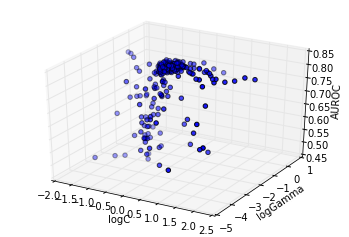
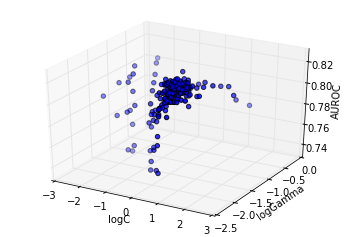
updated local optima notebook

diff --git a/docs/notebooks/notebooks/local-optima.rst b/docs/notebooks/notebooks/local-optima.rst
@@ -22,8 +22,7 @@ response surface is non-smooth, non-convex and has many local minima).
     %matplotlib inline
     from matplotlib import pylab as plt
     from mpl_toolkits.mplot3d import Axes3D
-Create the data set: we use the MNIST data set and will build models to
-distinguish digits 8 and 9.
+Create a 2-D toy data set.
 
 .. code:: python
 
@@ -52,18 +51,13 @@ Lets have a look at our 2D data set.
 
 .. parsed-literal::
 
-    [<matplotlib.lines.Line2D at 0x7fefe2161b90>]
+    [<matplotlib.lines.Line2D at 0x7f1f2a6a2b90>]
 
 
 
 
 .. image:: local-optima_files/output_6_1.png
 
-
-First, lets see the performance of an SVC with default hyperparameters.
-
-Tune SVC with RBF kernel 
--------------------------
 
 In order to use Optunity to optimize hyperparameters, we start by
 defining the objective function. We will use 5-fold cross-validated area
@@ -86,7 +80,7 @@ Now we can use Optunity to find the hyperparameters that maximize AUROC.
 
 .. code:: python
 
-    optimal_rbf_pars, info, _ = optunity.maximize(svm_rbf_tuned_auroc, num_evals=300, logC=[-2, 2], logGamma=[-5, 0])
+    optimal_rbf_pars, info, _ = optunity.maximize(svm_rbf_tuned_auroc, num_evals=300, logC=[-4, 2], logGamma=[-5, 0])
     # when running this outside of IPython we can parallelize via optunity.pmap
     # optimal_rbf_pars, _, _ = optunity.maximize(svm_rbf_tuned_auroc, 150, C=[0, 10], gamma=[0, 0.1], pmap=optunity.pmap)
     
@@ -95,8 +89,8 @@ Now we can use Optunity to find the hyperparameters that maximize AUROC.
 
 .. parsed-literal::
 
-    Optimal parameters: {'logGamma': -1.1793256704935242, 'logC': -0.46768229166666586}
-    AUROC of tuned SVM with RBF kernel: 0.815
+    Optimal parameters: {'logGamma': -1.7262599731822696, 'logC': 0.5460942232689681}
+    AUROC of tuned SVM with RBF kernel: 0.825
 
 
 We can turn the call log into a pandas dataframe to efficiently inspect
@@ -125,12 +119,12 @@ we can make surface plots.
 
 .. parsed-literal::
 
-    <matplotlib.text.Text at 0x7fefde77ab90>
+    <matplotlib.text.Text at 0x7f1f26cbed50>
 
 
 
 
-.. image:: local-optima_files/output_16_1.png
+.. image:: local-optima_files/output_14_1.png
 
 
 The above plot shows the particles converge directly towards the
@@ -157,12 +151,12 @@ showing the sub trace with score up to 99% of the optimum
 
 .. parsed-literal::
 
-    <matplotlib.text.Text at 0x7fefde686210>
+    <matplotlib.text.Text at 0x7f1f2a5c3190>
 
 
 
 
-.. image:: local-optima_files/output_18_1.png
+.. image:: local-optima_files/output_16_1.png
 
 
 .. code:: python
@@ -181,34 +175,115 @@ showing the sub trace with score up to 99% of the optimum
 
 .. parsed-literal::
 
-    <matplotlib.text.Text at 0x7fefde5cd5d0>
+    <matplotlib.text.Text at 0x7f1f26ae5410>
 
 
 
 
-.. image:: local-optima_files/output_19_1.png
+.. image:: local-optima_files/output_17_1.png
 
+
+Lets further examine the area close to the optimum, that is the 95%
+region. We will examine a 50x50 grid in this region.
 
 .. code:: python
 
-    cutoff = 0.99 * info.optimum
-    fig = plt.figure()
-    ax = fig.add_subplot(111, projection='3d')
-    ax.scatter(xs=df[df.value > cutoff]['logC'], 
-               ys=df[df.value > cutoff]['logGamma'], 
-               zs=df[df.value > cutoff]['value'])
-    ax.set_xlabel('logC')
-    ax.set_ylabel('logGamma')
-    ax.set_zlabel('AUROC')
+    minlogc = min(df[df.value > cutoff]['logC'])
+    maxlogc = max(df[df.value > cutoff]['logC'])
+    minloggamma = min(df[df.value > cutoff]['logGamma'])
+    maxloggamma = max(df[df.value > cutoff]['logGamma'])
+    
+    _, info_new, _ = optunity.maximize(svm_rbf_tuned_auroc, num_evals=2500, 
+                                       logC=[minlogc, maxlogc], 
+                                       logGamma=[minloggamma, maxloggamma], 
+                                       solver_name='grid search')
+Make a new data frame of the call log for easy manipulation.
+
+.. code:: python
+
+    df_new = optunity.call_log2dataframe(info_new.call_log)
+Determine the region in which we will do a standard grid search to
+obtain contours.
+
+.. code:: python
+
+    reshape = lambda x: np.reshape(x, (50, 50))
+    logcs = reshape(df_new['logC'])
+    loggammas = reshape(df_new['logGamma'])
+    values = reshape(df_new['value'])
+Now, lets look at a contour plot to see whether or not the response
+surface is smooth.
+
+.. code:: python
+
+    levels = np.arange(0.97, 1.0, 0.005) * info_new.optimum
+    CS = plt.contour(logcs, loggammas, values, levels=levels)
+    plt.clabel(CS, inline=1, fontsize=10)
+    plt.title('Contours of SVM tuning response surface')
+    plt.xlabel('log C')
+    plt.ylabel('log gamma')
+
+.. parsed-literal::
+
+    /usr/lib/pymodules/python2.7/matplotlib/contour.py:483: DeprecationWarning: using a non-integer number instead of an integer will result in an error in the future
+      nlc.append(np.r_[lc[:I[0] + 1], xy1])
+    /usr/lib/pymodules/python2.7/matplotlib/contour.py:485: DeprecationWarning: using a non-integer number instead of an integer will result in an error in the future
+      nlc.append(np.r_[xy2, lc[I[1]:]])
+    /usr/lib/pymodules/python2.7/matplotlib/contour.py:483: DeprecationWarning: using a non-integer number instead of an integer will result in an error in the future
+      nlc.append(np.r_[lc[:I[0] + 1], xy1])
+    /usr/lib/pymodules/python2.7/matplotlib/contour.py:485: DeprecationWarning: using a non-integer number instead of an integer will result in an error in the future
+      nlc.append(np.r_[xy2, lc[I[1]:]])
+    /usr/lib/pymodules/python2.7/matplotlib/contour.py:483: DeprecationWarning: using a non-integer number instead of an integer will result in an error in the future
+      nlc.append(np.r_[lc[:I[0] + 1], xy1])
+    /usr/lib/pymodules/python2.7/matplotlib/contour.py:485: DeprecationWarning: using a non-integer number instead of an integer will result in an error in the future
+      nlc.append(np.r_[xy2, lc[I[1]:]])
+    /usr/lib/pymodules/python2.7/matplotlib/contour.py:483: DeprecationWarning: using a non-integer number instead of an integer will result in an error in the future
+      nlc.append(np.r_[lc[:I[0] + 1], xy1])
+    /usr/lib/pymodules/python2.7/matplotlib/contour.py:485: DeprecationWarning: using a non-integer number instead of an integer will result in an error in the future
+      nlc.append(np.r_[xy2, lc[I[1]:]])
+    /usr/lib/pymodules/python2.7/matplotlib/contour.py:483: DeprecationWarning: using a non-integer number instead of an integer will result in an error in the future
+      nlc.append(np.r_[lc[:I[0] + 1], xy1])
+    /usr/lib/pymodules/python2.7/matplotlib/contour.py:485: DeprecationWarning: using a non-integer number instead of an integer will result in an error in the future
+      nlc.append(np.r_[xy2, lc[I[1]:]])
+    /usr/lib/pymodules/python2.7/matplotlib/contour.py:483: DeprecationWarning: using a non-integer number instead of an integer will result in an error in the future
+      nlc.append(np.r_[lc[:I[0] + 1], xy1])
+    /usr/lib/pymodules/python2.7/matplotlib/contour.py:485: DeprecationWarning: using a non-integer number instead of an integer will result in an error in the future
+      nlc.append(np.r_[xy2, lc[I[1]:]])
+    /usr/lib/pymodules/python2.7/matplotlib/contour.py:483: DeprecationWarning: using a non-integer number instead of an integer will result in an error in the future
+      nlc.append(np.r_[lc[:I[0] + 1], xy1])
+    /usr/lib/pymodules/python2.7/matplotlib/contour.py:485: DeprecationWarning: using a non-integer number instead of an integer will result in an error in the future
+      nlc.append(np.r_[xy2, lc[I[1]:]])
+    /usr/lib/pymodules/python2.7/matplotlib/contour.py:479: DeprecationWarning: using a non-integer number instead of an integer will result in an error in the future
+      nlc.append(np.r_[xy2, lc[I[1]:I[0] + 1], xy1])
+    /usr/lib/pymodules/python2.7/matplotlib/contour.py:479: DeprecationWarning: using a non-integer number instead of an integer will result in an error in the future
+      nlc.append(np.r_[xy2, lc[I[1]:I[0] + 1], xy1])
+    /usr/lib/pymodules/python2.7/matplotlib/contour.py:479: DeprecationWarning: using a non-integer number instead of an integer will result in an error in the future
+      nlc.append(np.r_[xy2, lc[I[1]:I[0] + 1], xy1])
+    /usr/lib/pymodules/python2.7/matplotlib/contour.py:479: DeprecationWarning: using a non-integer number instead of an integer will result in an error in the future
+      nlc.append(np.r_[xy2, lc[I[1]:I[0] + 1], xy1])
+    /usr/lib/pymodules/python2.7/matplotlib/contour.py:483: DeprecationWarning: using a non-integer number instead of an integer will result in an error in the future
+      nlc.append(np.r_[lc[:I[0] + 1], xy1])
+    /usr/lib/pymodules/python2.7/matplotlib/contour.py:485: DeprecationWarning: using a non-integer number instead of an integer will result in an error in the future
+      nlc.append(np.r_[xy2, lc[I[1]:]])
+    /usr/lib/pymodules/python2.7/matplotlib/contour.py:479: DeprecationWarning: using a non-integer number instead of an integer will result in an error in the future
+      nlc.append(np.r_[xy2, lc[I[1]:I[0] + 1], xy1])
+    /usr/lib/pymodules/python2.7/matplotlib/contour.py:479: DeprecationWarning: using a non-integer number instead of an integer will result in an error in the future
+      nlc.append(np.r_[xy2, lc[I[1]:I[0] + 1], xy1])
+
 
 
 
 .. parsed-literal::
 
-    <matplotlib.text.Text at 0x7fefde505dd0>
+    <matplotlib.text.Text at 0x7f1f26ac3090>
 
 
 
 
-.. image:: local-optima_files/output_20_1.png
+.. image:: local-optima_files/output_25_2.png
 
+
+Clearly, this response surface is filled with local minima. This is a
+general observation in automated hyperparameter optimization, and is one
+of the key reasons we need robust solvers. If there were no local
+minima, a simple gradient-descent-like solver would do the trick.
